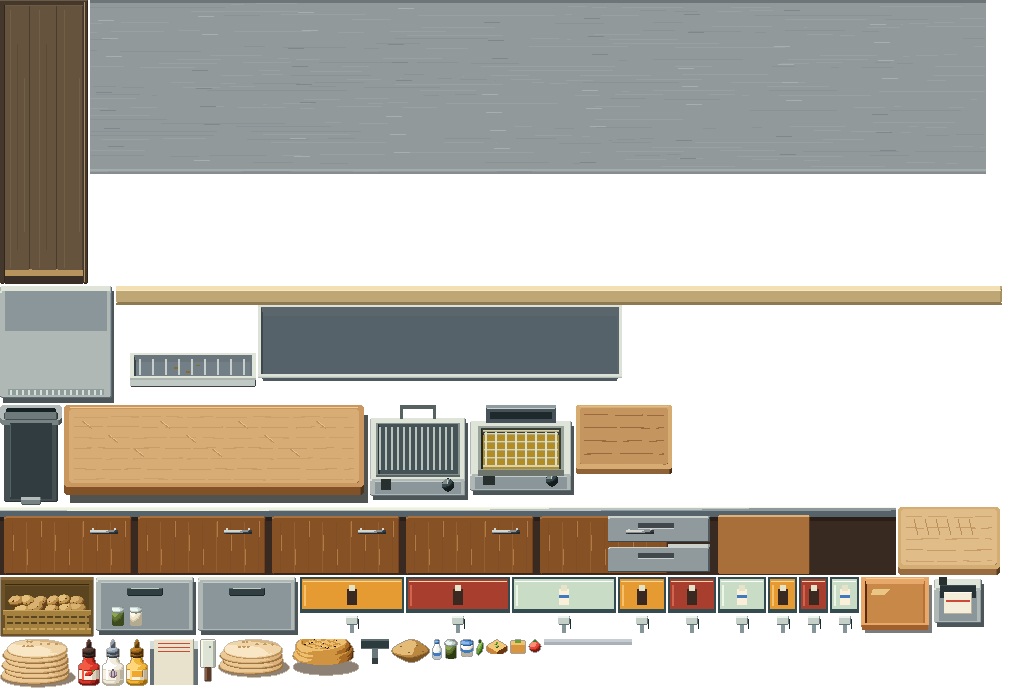
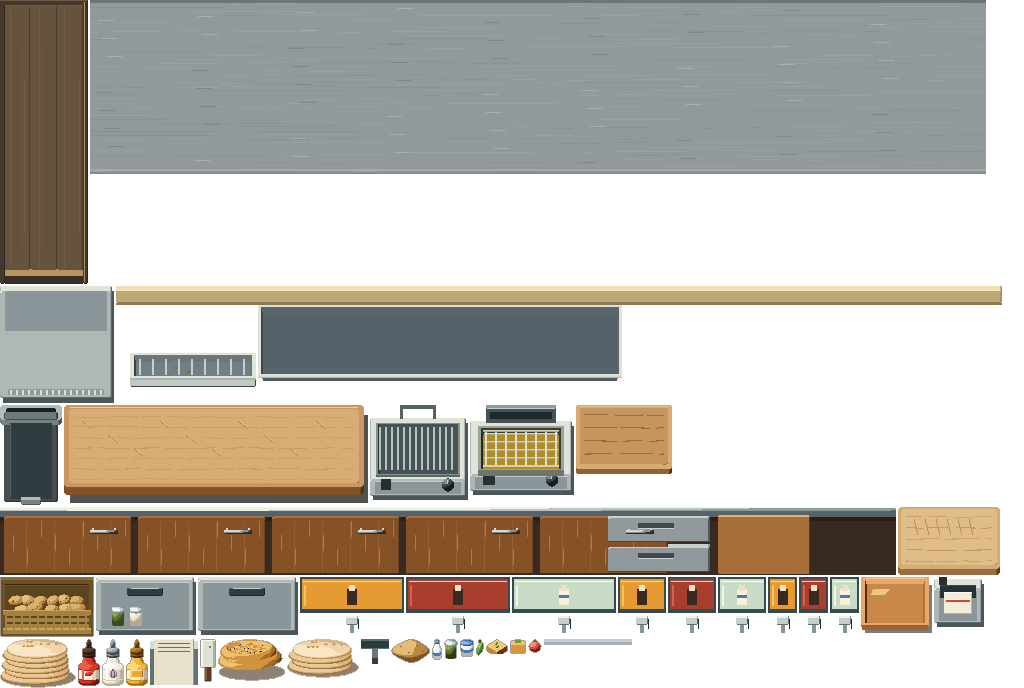
Sipariş balonu düzeni, paket fişi, pide yığını
- balon: ürün başına eşit 20 px hücre, genişlik ürün sayısına göre; tek tip
  boyda HD sipariş ikonları (ikon_hd sip_*: dürüm, patates, tatlı, iskender,
  içecekler). Eskiden 58 px'e sıkışıp patates dürümden büyük ve öndeydi.
- paket (moto) fişi: phone_draw yeni fişi modülün kendisinde arıyordu
  (has_method), hep eski fiş (farklı sos işareti) çiziliyordu -> game.has_method.
  Fiş balonla aynı ikonlar, ölçeksiz (ctx.scale HD'yi pikselliğe düşürüyordu),
  istenmeyenler küçük yok rozeti, yan ürünler 3 sütun.
- pide yığını: tuval üstten büyüdü (üst pide kesikti); katmanlar hafif dönük
  (kenarlar paralel çizgi gibi duruyordu)
- tests/hd_sahne.gd --siparis3, --paket

Changed region(s): [[0.1875, 0.9157, 0.3438, 1.0]]

diff --git a/blender/models/tezgah2_hd.py b/blender/models/tezgah2_hd.py
@@ -719,8 +719,12 @@ def _pide_yigin(cx, taban_gy, adet, rx, K):
     Mg = px.flat_a("PideGolge", "#3a2210", 0.35)
     I.yatay_elips("golge", cx + 1.0, taban_gy + 1.0, rx + 1.2, 0.1, Mg, K, ry_ekran=3.8)
     for i in range(adet):
-        PH.pide_mesh("pide%d" % i, cx + (0.5 if i % 2 else -0.4), taban_gy - i * 2.3, rx - i * 0.6, 9.0 - i * 0.3, 2.5,
-                     desen=True, tohum=i * 11.0, tohumlar=(i == adet - 1))
+        # hafif donuk ve farkli boyda: kenarlar paralel cizgi gibi durmasin
+        ob = PH.pide_mesh("pide%d" % i, cx + (0.8 if i % 2 else -0.6), taban_gy - i * 2.3, rx - i * 0.5 + (0.4 if i == 1 else 0.0),
+                          9.0 - i * 0.4, 2.5, desen=True, tohum=i * 11.0, tohumlar=(i == adet - 1))
+        ob.data.transform(__import__("mathutils").Matrix.Translation((-cx, 0, 0)))
+        ob.location.x = cx
+        ob.rotation_euler = (0.0, math.radians((-1.2, 1.6, -0.8)[i % 3]), math.radians((3.0, -4.0, 2.0)[i % 3]))
 
 
 def ekmek_lavas_tek():
@@ -870,7 +874,7 @@ parca("cop", (-1, -1, 34, 52), cop2)
 parca("altlik", (-1, -1, 50, 37), altlik)
 parca("kutu_raf_46", (0, 12, 46, 8), lambda: T.kutu_raf(46), K=0.4)
 parca("ekmek_lavas_tek", (2, 2, 44, 34), ekmek_lavas_tek, cizgi="#8a6a3a", cizgi_alfa=110)
-parca("ekmek_pide_arka", (4, 4, 40, 22), ekmek_pide_arka, cizgi="#5a3a18", cizgi_alfa=110)
+parca("ekmek_pide_arka", (4, -4, 40, 30), ekmek_pide_arka, cizgi="#5a3a18", cizgi_alfa=110)   # ust pide tuvalden tasmasin
 parca("ekmek_lavas_on", (3, 16, 42, 22), ekmek_lavas_on, cizgi="#8a6a3a", cizgi_alfa=110)
 for _i in range(3):
     parca("sise_%d" % _i, (-8, -25, 16, 28), sise2(_i), K=0.3, cizgi=T.hexmul(SOS2[_i]["ramp"][0], .7), cizgi_alfa=150)

diff --git a/blender/models/ikon_hd.py b/blender/models/ikon_hd.py
@@ -470,6 +470,27 @@ for _t in ("cola", "fanta", "ayran"):
     parca("bardak_%s" % _t, (-8, -11, 16, 21), bardak(_t), cizgi="#3f4a52", cizgi_alfa=90)
 
 
+# BIRLESIK (5. tur, kullanici: "siparis balonlarina duzen getir; patates durumden
+# bile buyuk ve onde"): balon / paket fisi icin AYNI gorsel boyda urun ikonlari.
+# Her urun modeli olceklenip ~16x14'luk kutuya sigdirilir.
+def olcekli(fn, s, dz=0.0):
+    def g():
+        once = set(bpy.data.objects.keys())
+        fn()
+        for ob in bpy.data.objects:
+            if ob.name not in once and ob.type == "MESH":
+                ob.location = (ob.location.x * s, ob.location.y * s, ob.location.z * s + dz)
+                ob.scale = ob.scale * s
+    return g
+
+
+SIP_OLCEK = {"wrap": (wrap, 0.9, "#2b1f14"), "fbox": (fbox, 0.6, "#2b1f14"), "sweet": (sweet, 0.74, "#2b1f14"),
+             "iskender": (iskender, 0.68, "#2b1f14"), "cola": (bardak("cola"), 0.68, "#3f4a52"),
+             "fanta": (bardak("fanta"), 0.68, "#3f4a52"), "ayran": (bardak("ayran"), 0.68, "#3f4a52")}
+for _id, (_fn, _s, _c) in SIP_OLCEK.items():
+    parca("sip_%s" % _id, (-9, -9, 18, 17), olcekli(_fn, _s), cizgi=_c, cizgi_alfa=120)
+
+
 # BIRLESIK: balondaki "!" / "G" sos isareti anlasilmiyordu -> kucuk sos rozeti:
 # aci sos = kirmizi rozet + aci biber, sarimsakli = krem rozet + sarimsak
 def sos_rozet(tur):
